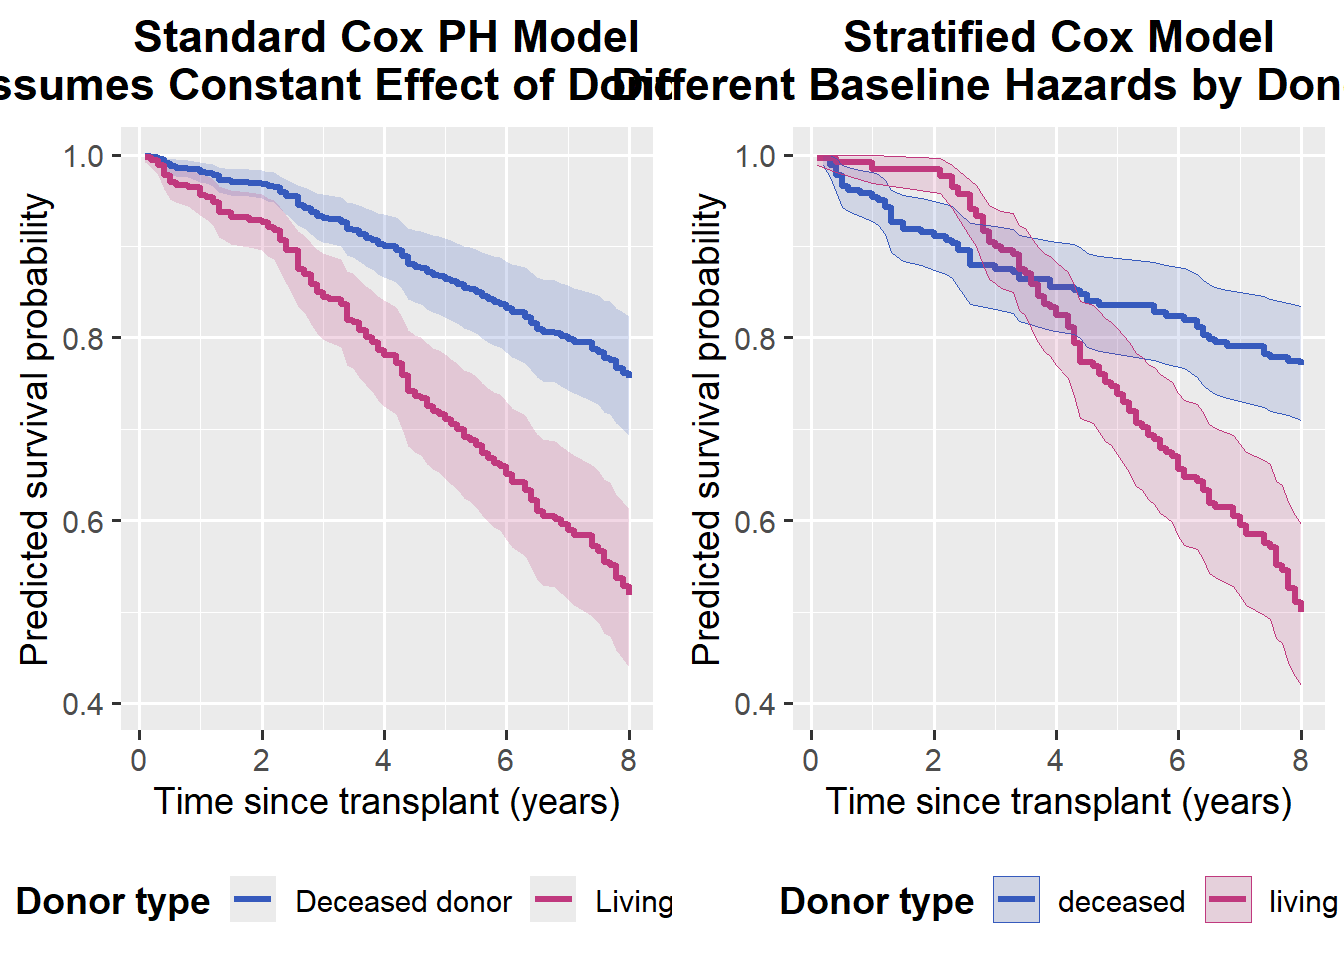
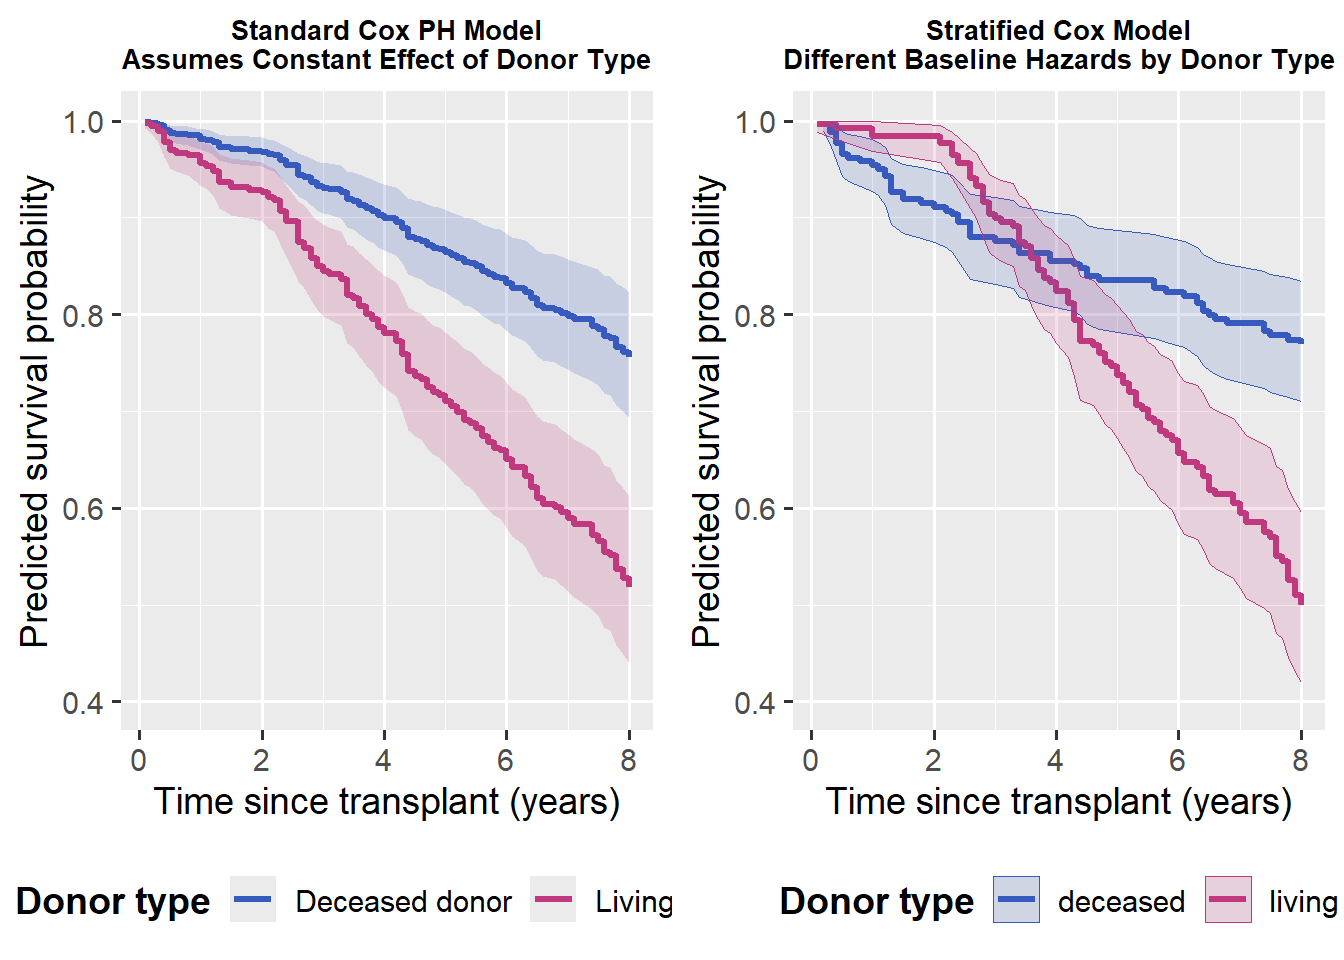
Complete Lecture 3

diff --git a/docs/lecture-03-non-ph-cox.html b/docs/lecture-03-non-ph-cox.html
@@ -685,12 +685,21 @@ Why Ignoring PH Violations Can Be Misleading
 <span id="cb7-87"><a href="#cb7-87" aria-hidden="true" tabindex="-1"></a></span>
 <span id="cb7-88"><a href="#cb7-88" aria-hidden="true" tabindex="-1"></a> </span>
 <span id="cb7-89"><a href="#cb7-89" aria-hidden="true" tabindex="-1"></a><span class="fu">library</span>(gridExtra)</span>
-<span id="cb7-90"><a href="#cb7-90" aria-hidden="true" tabindex="-1"></a></span>
-<span id="cb7-91"><a href="#cb7-91" aria-hidden="true" tabindex="-1"></a><span class="fu">grid.arrange</span>(</span>
-<span id="cb7-92"><a href="#cb7-92" aria-hidden="true" tabindex="-1"></a>  standard_cox_plot,</span>
-<span id="cb7-93"><a href="#cb7-93" aria-hidden="true" tabindex="-1"></a>  stratified_cox_plot,</span>
-<span id="cb7-94"><a href="#cb7-94" aria-hidden="true" tabindex="-1"></a>  <span class="at">ncol =</span> <span class="dv">2</span></span>
-<span id="cb7-95"><a href="#cb7-95" aria-hidden="true" tabindex="-1"></a>)</span></code><button title="Copy to Clipboard" class="code-copy-button"><i class="bi"></i></button></pre></div>
+<span id="cb7-90"><a href="#cb7-90" aria-hidden="true" tabindex="-1"></a><span class="fu">library</span>(ggplot2)</span>
+<span id="cb7-91"><a href="#cb7-91" aria-hidden="true" tabindex="-1"></a></span>
+<span id="cb7-92"><a href="#cb7-92" aria-hidden="true" tabindex="-1"></a><span class="co"># Reduce title size for each plot</span></span>
+<span id="cb7-93"><a href="#cb7-93" aria-hidden="true" tabindex="-1"></a>standard_cox_plot_small <span class="ot">&lt;-</span> standard_cox_plot <span class="sc">+</span></span>
+<span id="cb7-94"><a href="#cb7-94" aria-hidden="true" tabindex="-1"></a>  <span class="fu">theme</span>(<span class="at">plot.title =</span> <span class="fu">element_text</span>(<span class="at">size =</span> <span class="dv">10</span>))</span>
+<span id="cb7-95"><a href="#cb7-95" aria-hidden="true" tabindex="-1"></a></span>
+<span id="cb7-96"><a href="#cb7-96" aria-hidden="true" tabindex="-1"></a>stratified_cox_plot_small <span class="ot">&lt;-</span> stratified_cox_plot <span class="sc">+</span></span>
+<span id="cb7-97"><a href="#cb7-97" aria-hidden="true" tabindex="-1"></a>  <span class="fu">theme</span>(<span class="at">plot.title =</span> <span class="fu">element_text</span>(<span class="at">size =</span> <span class="dv">10</span>))</span>
+<span id="cb7-98"><a href="#cb7-98" aria-hidden="true" tabindex="-1"></a></span>
+<span id="cb7-99"><a href="#cb7-99" aria-hidden="true" tabindex="-1"></a><span class="co"># Arrange side by side</span></span>
+<span id="cb7-100"><a href="#cb7-100" aria-hidden="true" tabindex="-1"></a><span class="fu">grid.arrange</span>(</span>
+<span id="cb7-101"><a href="#cb7-101" aria-hidden="true" tabindex="-1"></a>  standard_cox_plot_small,</span>
+<span id="cb7-102"><a href="#cb7-102" aria-hidden="true" tabindex="-1"></a>  stratified_cox_plot_small,</span>
+<span id="cb7-103"><a href="#cb7-103" aria-hidden="true" tabindex="-1"></a>  <span class="at">ncol =</span> <span class="dv">2</span></span>
+<span id="cb7-104"><a href="#cb7-104" aria-hidden="true" tabindex="-1"></a>)</span></code><button title="Copy to Clipboard" class="code-copy-button"><i class="bi"></i></button></pre></div>
 </details>
 <div class="cell-output-display">
 <div>
@@ -1556,16 +1565,25 @@ window.document.addEventListener("DOMContentLoaded", function (event) {
 <span id="cb8-376"><a href="#cb8-376" aria-hidden="true" tabindex="-1"></a></span>
 <span id="cb8-377"><a href="#cb8-377" aria-hidden="true" tabindex="-1"></a><span class="in"> </span></span>
 <span id="cb8-378"><a href="#cb8-378" aria-hidden="true" tabindex="-1"></a><span class="in">library(gridExtra)</span></span>
-<span id="cb8-379"><a href="#cb8-379" aria-hidden="true" tabindex="-1"></a></span>
-<span id="cb8-380"><a href="#cb8-380" aria-hidden="true" tabindex="-1"></a><span class="in">grid.arrange(</span></span>
-<span id="cb8-381"><a href="#cb8-381" aria-hidden="true" tabindex="-1"></a><span class="in">  standard_cox_plot,</span></span>
-<span id="cb8-382"><a href="#cb8-382" aria-hidden="true" tabindex="-1"></a><span class="in">  stratified_cox_plot,</span></span>
-<span id="cb8-383"><a href="#cb8-383" aria-hidden="true" tabindex="-1"></a><span class="in">  ncol = 2</span></span>
-<span id="cb8-384"><a href="#cb8-384" aria-hidden="true" tabindex="-1"></a><span class="in">)</span></span>
-<span id="cb8-385"><a href="#cb8-385" aria-hidden="true" tabindex="-1"></a></span>
-<span id="cb8-386"><a href="#cb8-386" aria-hidden="true" tabindex="-1"></a><span class="in">```</span></span>
+<span id="cb8-379"><a href="#cb8-379" aria-hidden="true" tabindex="-1"></a><span class="in">library(ggplot2)</span></span>
+<span id="cb8-380"><a href="#cb8-380" aria-hidden="true" tabindex="-1"></a></span>
+<span id="cb8-381"><a href="#cb8-381" aria-hidden="true" tabindex="-1"></a><span class="in"># Reduce title size for each plot</span></span>
+<span id="cb8-382"><a href="#cb8-382" aria-hidden="true" tabindex="-1"></a><span class="in">standard_cox_plot_small &lt;- standard_cox_plot +</span></span>
+<span id="cb8-383"><a href="#cb8-383" aria-hidden="true" tabindex="-1"></a><span class="in">  theme(plot.title = element_text(size = 10))</span></span>
+<span id="cb8-384"><a href="#cb8-384" aria-hidden="true" tabindex="-1"></a></span>
+<span id="cb8-385"><a href="#cb8-385" aria-hidden="true" tabindex="-1"></a><span class="in">stratified_cox_plot_small &lt;- stratified_cox_plot +</span></span>
+<span id="cb8-386"><a href="#cb8-386" aria-hidden="true" tabindex="-1"></a><span class="in">  theme(plot.title = element_text(size = 10))</span></span>
 <span id="cb8-387"><a href="#cb8-387" aria-hidden="true" tabindex="-1"></a></span>
-<span id="cb8-388"><a href="#cb8-388" aria-hidden="true" tabindex="-1"></a></span></code><button title="Copy to Clipboard" class="code-copy-button" data-in-quarto-modal=""><i class="bi"></i></button></pre></div>
+<span id="cb8-388"><a href="#cb8-388" aria-hidden="true" tabindex="-1"></a><span class="in"># Arrange side by side</span></span>
+<span id="cb8-389"><a href="#cb8-389" aria-hidden="true" tabindex="-1"></a><span class="in">grid.arrange(</span></span>
+<span id="cb8-390"><a href="#cb8-390" aria-hidden="true" tabindex="-1"></a><span class="in">  standard_cox_plot_small,</span></span>
+<span id="cb8-391"><a href="#cb8-391" aria-hidden="true" tabindex="-1"></a><span class="in">  stratified_cox_plot_small,</span></span>
+<span id="cb8-392"><a href="#cb8-392" aria-hidden="true" tabindex="-1"></a><span class="in">  ncol = 2</span></span>
+<span id="cb8-393"><a href="#cb8-393" aria-hidden="true" tabindex="-1"></a><span class="in">)</span></span>
+<span id="cb8-394"><a href="#cb8-394" aria-hidden="true" tabindex="-1"></a></span>
+<span id="cb8-395"><a href="#cb8-395" aria-hidden="true" tabindex="-1"></a><span class="in">```</span></span>
+<span id="cb8-396"><a href="#cb8-396" aria-hidden="true" tabindex="-1"></a></span>
+<span id="cb8-397"><a href="#cb8-397" aria-hidden="true" tabindex="-1"></a></span></code><button title="Copy to Clipboard" class="code-copy-button" data-in-quarto-modal=""><i class="bi"></i></button></pre></div>
 </div></div></div></div></div>
 </div> <!-- /content -->
 
